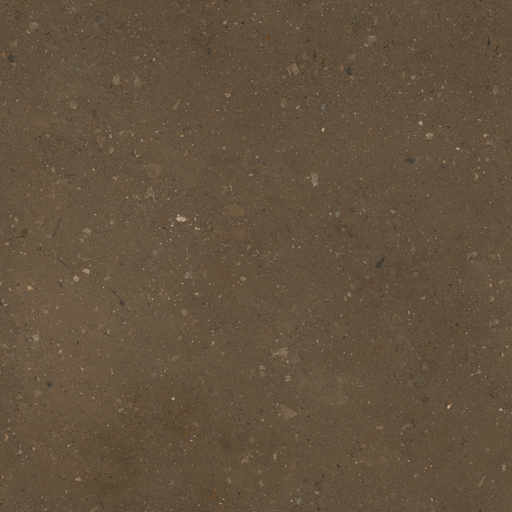
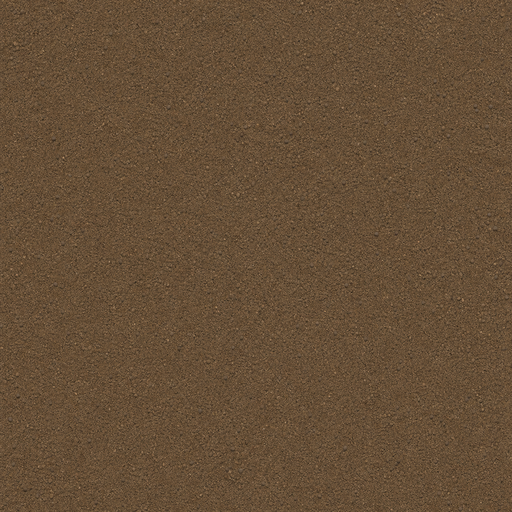
Replace dirt material and randomize tiles

diff --git a/tests/renderer_tests.cpp b/tests/renderer_tests.cpp
@@ -428,6 +428,9 @@ bool TestStaticBatching() {
     PhysicsSandboxRenderMaterial concrete;
     concrete.surfaceMaterialId = 0u;
     scene.materials.push_back(concrete);
+    PhysicsSandboxRenderMaterial dirt;
+    dirt.surfaceMaterialId = 6u;
+    scene.materials.push_back(dirt);
 
     PhysicsSandboxRenderInstance placed;
     placed.meshIndex = 0u;
@@ -458,19 +461,27 @@ bool TestStaticBatching() {
     blades.provenance.blockName = "StadiumGrass";
     scene.instances.push_back(blades);
 
+    PhysicsSandboxRenderInstance dirtGround = clip;
+    dirtGround.materialIndex = 2u;
+    dirtGround.purpose = PhysicsSandboxScenePurpose::PlacedBlock;
+    dirtGround.provenance.blockName = "StadiumRoadDirtHigh";
+    dirtGround.worldTransform.translation = {35.0f, 0.0f, 0.0f};
+    scene.instances.push_back(dirtGround);
+
     PhysicsSandboxRenderInstance hidden = placed;
     hidden.visible = false;
     scene.instances.push_back(hidden);
 
     const auto result = forevertas::viewer::BuildStaticVisualBatches(scene);
+    const auto repeat = forevertas::viewer::BuildStaticVisualBatches(scene);
     bool okay = Check(
-            result.visibleSourceInstanceCount == 4u &&
-                    result.defaultVisibleInstanceCount == 2u &&
-                    result.defaultTriangleCount == 2u &&
+            result.visibleSourceInstanceCount == 5u &&
+                    result.defaultVisibleInstanceCount == 3u &&
+                    result.defaultTriangleCount == 3u &&
                     result.duplicateInstanceCount == 1u &&
                     result.skippedGrassBladeInstanceCount == 1u &&
                     result.skippedGrassBladeTriangleCount == 32u &&
-                    result.batches.size() == 2u,
+                    result.batches.size() == 3u,
             "static batch counts, blade removal, or duplicate suppression "
             "were incorrect");
     const auto turboBatch = std::find_if(
@@ -527,8 +538,6 @@ bool TestStaticBatching() {
             projectedArea += area;
             hasDegenerateTriangle |= area < 0.0001f;
         }
-        const auto repeat =
-                forevertas::viewer::BuildStaticVisualBatches(scene);
         const auto repeatedGrassClipBatch = std::find_if(
                 repeat.batches.cbegin(), repeat.batches.cend(),
                 [](const StaticVisualBatch &batch) {
@@ -551,6 +560,31 @@ bool TestStaticBatching() {
                 "grass ground did not receive stable randomized four-meter "
                 "tiles");
     }
+    const auto dirtBatch = std::find_if(
+            result.batches.cbegin(), result.batches.cend(),
+            [](const StaticVisualBatch &batch) {
+                return batch.materialClass == ReplacementMaterialClass::Dirt &&
+                       batch.purpose ==
+                               PhysicsSandboxScenePurpose::PlacedBlock &&
+                       batch.defaultVisible;
+            });
+    const auto repeatedDirtBatch = std::find_if(
+            repeat.batches.cbegin(), repeat.batches.cend(),
+            [](const StaticVisualBatch &batch) {
+                return batch.materialClass == ReplacementMaterialClass::Dirt &&
+                       batch.purpose ==
+                               PhysicsSandboxScenePurpose::PlacedBlock &&
+                       batch.defaultVisible;
+            });
+    okay &= Check(
+            dirtBatch != result.batches.cend() &&
+                    dirtBatch->triangleCount > 1u &&
+                    dirtBatch->vertices.size() >
+                            static_cast<qsizetype>(3u * 17u * sizeof(float)) &&
+                    repeatedDirtBatch != repeat.batches.cend() &&
+                    dirtBatch->vertices == repeatedDirtBatch->vertices &&
+                    dirtBatch->indices == repeatedDirtBatch->indices,
+            "dirt ground did not receive stable randomized four-meter tiles");
     if (turboBatch != result.batches.cend()) {
         constexpr std::size_t FloatCount = 17u;
         const auto *vertices = reinterpret_cast<const float *>(

diff --git a/src/viewer/visual_scene_pipeline.cpp b/src/viewer/visual_scene_pipeline.cpp
@@ -389,8 +389,8 @@ void ApplyWorldUvProjection(VisualVertex &vertex,
     ApplyUvRotation(vertex, uv.x(), uv.y(), axis, 0u, tangent);
 }
 
-unsigned GrassTileQuarterTurns(std::int64_t tileU, std::int64_t tileV,
-                               ProjectionAxis axis) {
+unsigned TileQuarterTurns(std::int64_t tileU, std::int64_t tileV,
+                          ProjectionAxis axis) {
     const auto coordinateHash = [](std::int64_t coordinate) {
         const std::uint64_t bits = static_cast<std::uint64_t>(coordinate);
         return static_cast<std::uint32_t>(bits ^ (bits >> 32u));
@@ -553,7 +553,7 @@ void AppendInstance(BatchAccumulator &batch,
     ++batch.sourceInstanceCount;
 }
 
-void AppendRandomizedGrassInstance(
+void AppendRandomizedTiledInstance(
         BatchAccumulator &batch,
         const std::vector<VisualVertex> &sourceVertices,
         const std::vector<std::uint32_t> &sourceIndices,
@@ -639,7 +639,7 @@ void AppendRandomizedGrassInstance(
                 }
 
                 const unsigned quarterTurns =
-                        GrassTileQuarterTurns(tileU, tileV, axis);
+                        TileQuarterTurns(tileU, tileV, axis);
                 const std::uint32_t baseVertex =
                         static_cast<std::uint32_t>(batch.vertices.size());
                 for (VisualVertex &vertex : polygon) {
@@ -796,8 +796,9 @@ BuildStaticVisualBatches(const PhysicsSandboxRenderScene &scene) {
                 MakeBatchKey(materialClass, instance.purpose,
                              mesh.hasVertexColors, defaultVisible,
                              instance.worldTransform);
-        if (materialClass == ReplacementMaterialClass::Grass) {
-            AppendRandomizedGrassInstance(
+        if (materialClass == ReplacementMaterialClass::Grass ||
+            materialClass == ReplacementMaterialClass::Dirt) {
+            AppendRandomizedTiledInstance(
                     accumulators[key], preparedMeshes[instance.meshIndex],
                     mesh.indices, instance.worldTransform,
                     replacement.worldUvScale);
